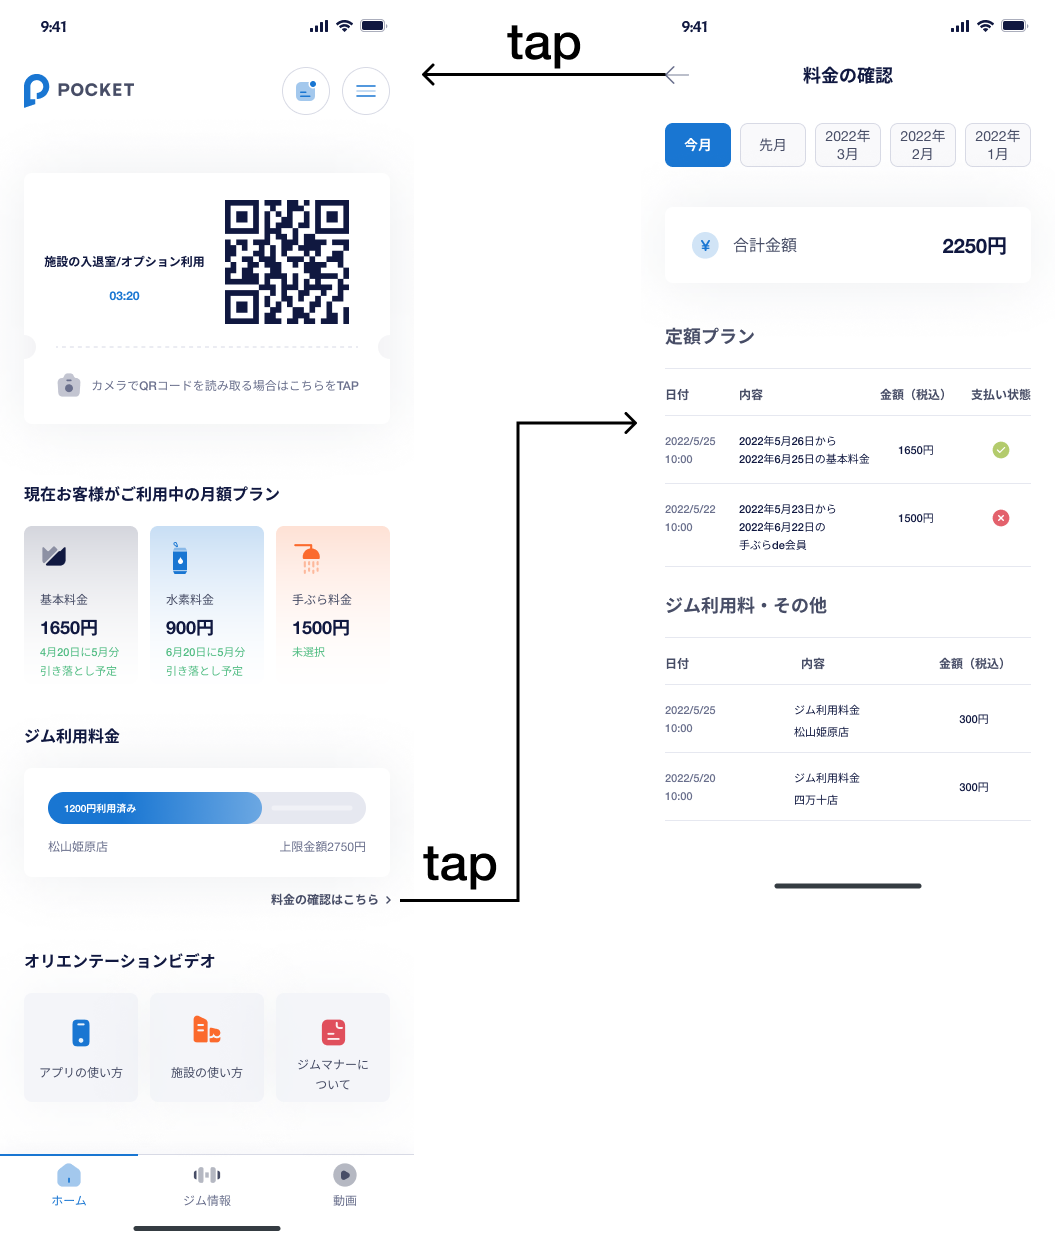
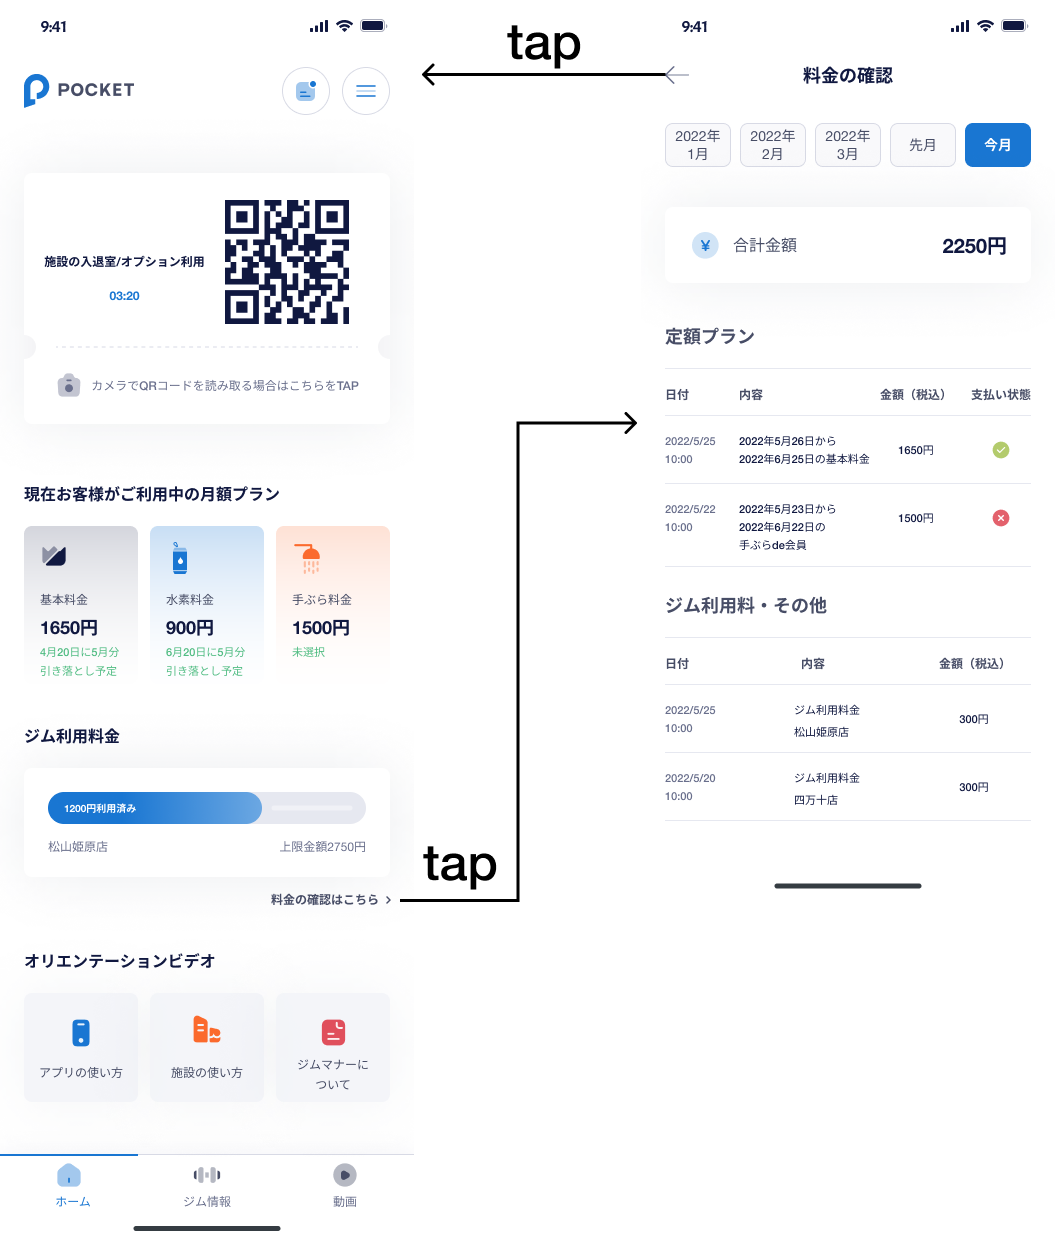
update payment confirm

diff --git a/105-vn.md b/105-vn.md
@@ -303,8 +303,8 @@
 ##### 月一覧 - Danh sách tháng `Slider`
 
 - User có thể tap vào từng tháng để filter chi tiết số tiền đã xài theo tháng. Danh sách tháng chỉ gồm những tháng bắt đầu khi user đăng kí hội viên.
-    - 今月： Tháng hiện tại, vị trí ngoài cùng bên trái
-    - 先月： Tháng trước, vị trí bên phải tháng hiện tại. Nếu chỉ có 1 tháng thì không hiển thị block này
+    - 今月： Tháng hiện tại, vị trí ngoài cùng bên phải
+    - 先月： Tháng trước, vị trí bên trái tháng hiện tại. Nếu chỉ có 1 tháng thì không hiển thị block này
 - Có thể quẹt trái phải để xem danh sách tháng. Tap vào tháng nào thì hiển thị màn hình chi tiết của tháng đó
 
 ##### 合計金額 - Tổng số tiền đã xài `Block`

diff --git a/105-jp.md b/105-jp.md
@@ -302,8 +302,8 @@
 ##### 月一覧 `スライダー`
 
 - ユーザーが月ごとの料金確認をフィルタできるように、月のリストを表示する：
-    - 今月：左側に表示される
-    - 先月：今月の右側に表示される。1ヶ月しかない場合は表示されない。
+    - 今月：右側に表示される
+    - 先月：今月の左側に表示される。1ヶ月しかない場合は表示されない。
 - 左右スワイプして、他の月を見える。
 - 月タブをタップしたら、その月の料金確認を表示する。
 
